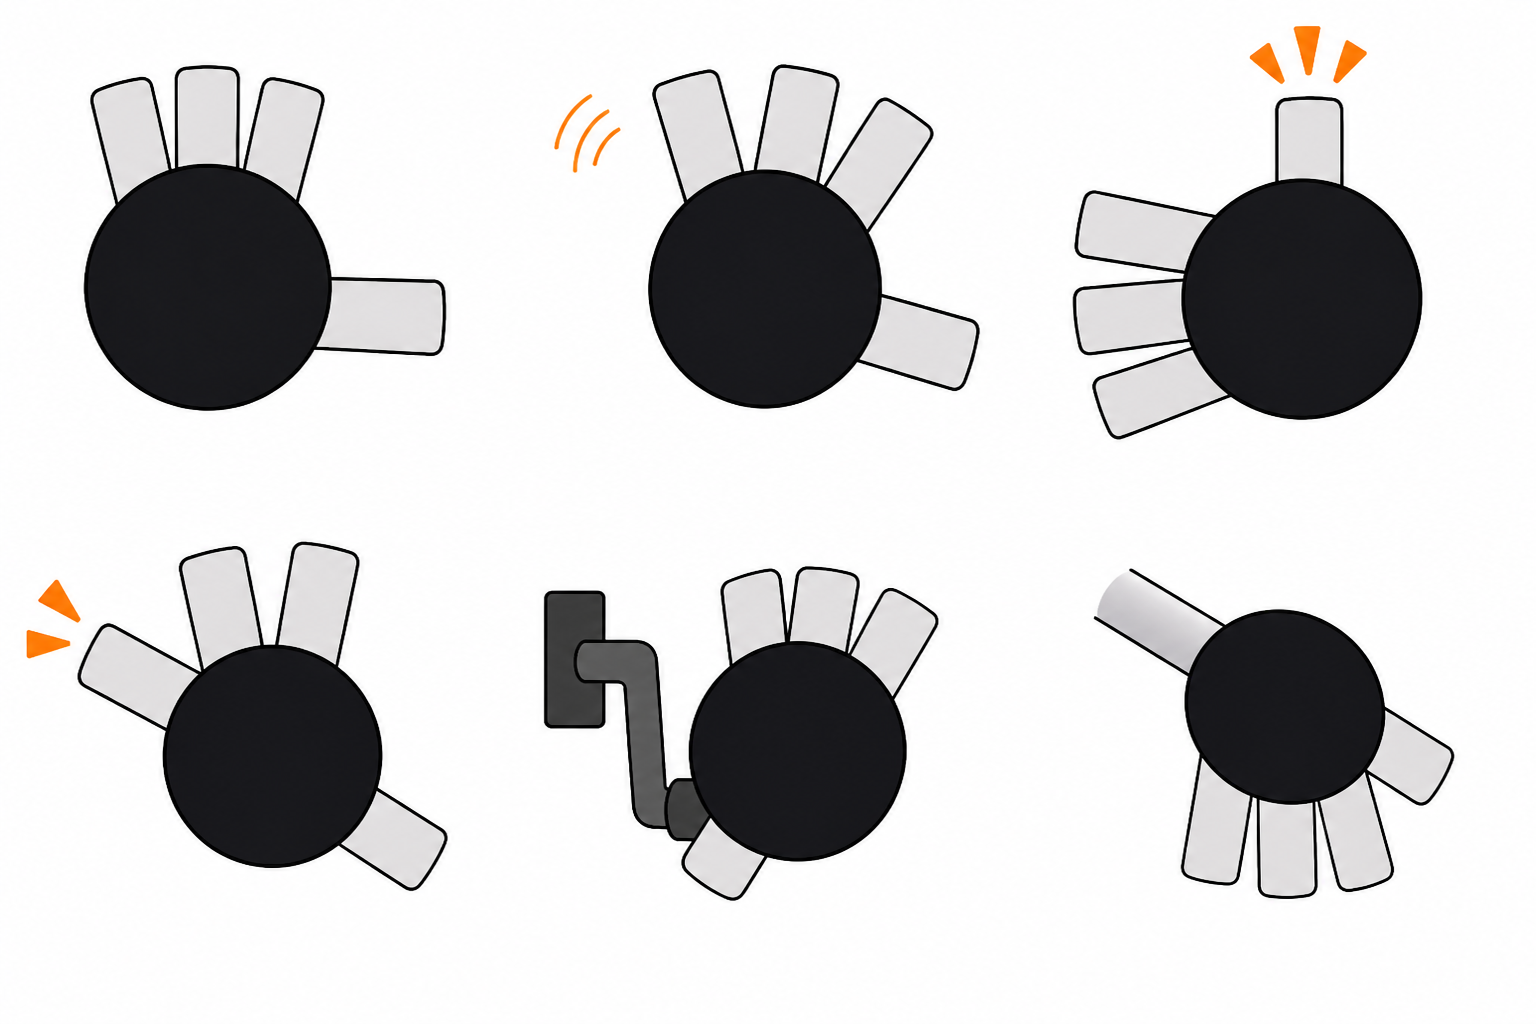
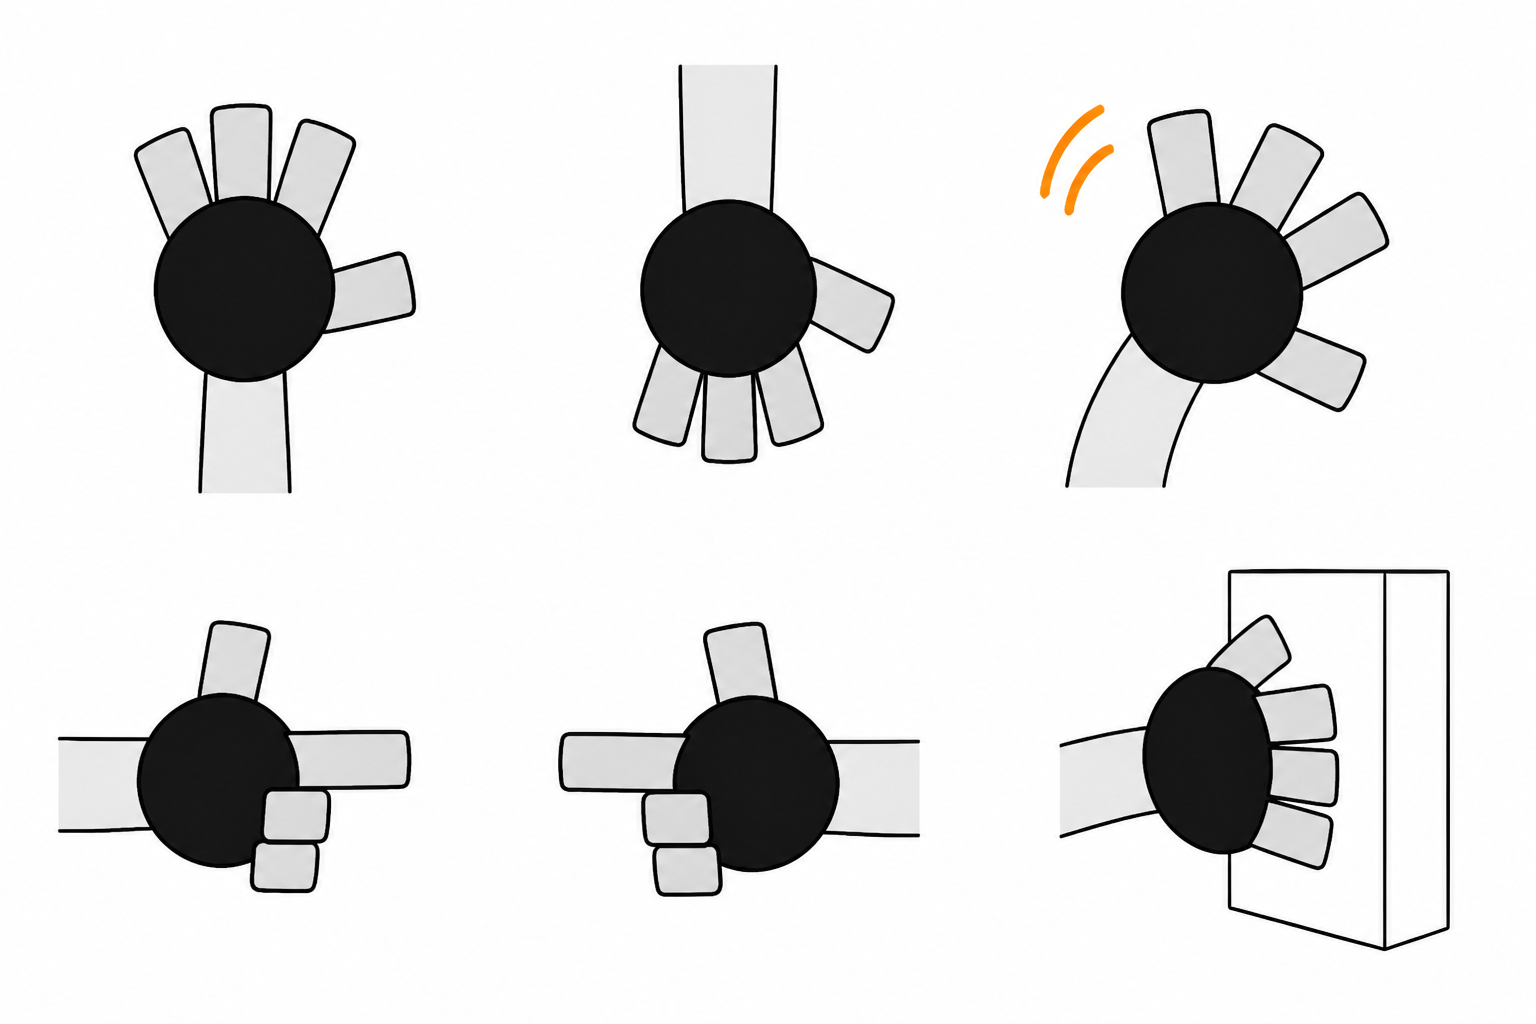
fix: restrict illustration hands to open palm and point
Grips collapse into gear-hands. Visible hands may only open or point;
T Krobot does the work with its body. Rebuild the hand lock sheets
without hold, thumbs-up, or OK poses.

diff --git a/docs/skills/tkrobot-illustrations/references/tkrobot-sketch-mode.md b/docs/skills/tkrobot-illustrations/references/tkrobot-sketch-mode.md
@@ -17,9 +17,9 @@ order:
 1. `assets/character-lock-canonical.png` — anatomy and colours from the sticker
    masters (wave, hands-on-hips, OK, face).
 2. `assets/character-lock-sketch.png` — the same character in thin-line form.
-3. `assets/hand-lock-canonical.png` — locked v1 hands: black palm blob, grey
-   rectangular tabs. Also `docs/references/hand-size-anchor.png`.
-4. `assets/hand-lock-sketch.png` — the same hands in thin-line form.
+3. `assets/hand-lock-canonical.png` — open-palm and pointing poses only.
+   Also `docs/references/hand-size-anchor.png`.
+4. `assets/hand-lock-sketch.png` — the same two poses in thin-line form.
 
 Hands are the most common miss. If a call can only take a few references,
 keep the two **hand** sheets. Do **not** pass `assets/examples/*.png` as
@@ -45,7 +45,16 @@ These do not relax. If any one is missing, regenerate.
 - Oversized **black oval feet**.
 - No mouth, no eyebrows, no blush, no nose. Blank, deadpan.
 
-## Hands (do not improvise)
+## Hands (open or point — never grip)
+
+Grips are the failure mode. Visible hands may only do **two** poses:
+
+- **Open** — palm toward us, hanging at the side, waving, or flat against a
+  surface (pushing). All four tabs readable.
+- **Point** — one grey finger tab out, grey thumb, two tabs along the palm.
+
+Do not invent a third pose. No holding, wrapping, cranking, stamping,
+carrying, pinching, thumbs-up, OK, fists, or gear-like sunbursts of tabs.
 
 Locked construction, from `docs/references/hand-size-anchor.png`:
 
@@ -55,17 +64,21 @@ Locked construction, from `docs/references/hand-size-anchor.png`:
   with hard sides and flat or slightly rounded corners. They grow out of the
   **edge** of the black blob.
 - Count the grey tabs: **three fingers plus one thumb**. Four tabs total.
-  Never four fingers plus a thumb (five tabs). Never four equal fingers with
-  no thumb. Never five digits.
-- Tabs stay **large** — the locked v1 blocky scale, roughly as long as the
-  palm is wide. Not tiny nubs, not the smaller v2 batch, not sausages.
+  Never four fingers plus a thumb (five tabs). Never five digits.
+- Tabs stay **large** — the locked v1 blocky scale. Not tiny nubs, not
+  sausages.
 - The grey arm tube meets the black palm. No extra ring.
 
-A hand that is fully hidden (in a pocket, behind a crate) may vanish. A hand
-that is visible enough to count must be this construction.
+A hand that is fully hidden may vanish. A hand that is visible enough to
+count must be open or pointing, in this construction.
+
+The **body** does the work: stand inside the machine, lean on the gate, sit
+on the crate, push with an open palm, point at the flow. Objects may rest
+*on* an open palm. They must not be gripped.
 
 Never: white Mickey gloves, all-black hands, stick-figure hooks, sausage
-fingers, fingernails, knuckle lines, or a mitten with white bars.
+fingers, fingernails, knuckle lines, a mitten with white bars, or any wrap
+around a handle.
 
 ## What relaxes
 
@@ -78,9 +91,9 @@ fingers, fingernails, knuckle lines, or a mitten with white bars.
 ## Character in the scene
 
 T Krobot is a serious, deadpan worker doing an absurd-but-coherent job. It
-must perform the image's core action: stuck inside the machine, pulling the
-wrong cable, guarding the gate, hauling the crate, weighing the ideas,
-patching the pipe, feeding pages into a strange device.
+must perform the image's core action with its **body**, not a grip: stuck
+inside the machine, leaning on the gate, standing on the crate, pointing at
+the leak, pushing the box with an open palm.
 
 Multiple T Krobots are allowed (2–3 max) when the structure needs stations —
 each doing one job. Never a crowd, never a mascot lineup.

diff --git a/docs/skills/tkrobot-illustrations/references/prompt-template.md b/docs/skills/tkrobot-illustrations/references/prompt-template.md
@@ -41,9 +41,11 @@ MUST match the lock sheets:
 - Hands (copy the hand-lock sheets): each visible hand is a ROUND SOLID BLACK
   PALM BLOB with exactly FOUR light-grey rectangular tabs growing from its
   edge — three fingers in a row plus one thumb set apart. Tabs are LARGE flat
-  rectangles with hard sides, not sausages, not nubs. The black blob is the
-  palm, not a glove. Never five digits. Never white Mickey gloves. Never
-  all-black hands. Never a mitten with white stripes.
+  rectangles with hard sides.
+  Allowed poses only: OPEN (palm toward us, hanging, waving, or flat against
+  a surface) or POINT (one tab out). Never grip, hold, wrap, crank, stamp,
+  carry, pinch, thumbs-up, OK, or fist. If a hand is curled around an object,
+  redraw the pose — have T Krobot push, lean, stand in, or point instead.
 - Feet: oversized solid black ovals.
 - No mouth, no eyebrows, no blush. Deadpan.
 
@@ -65,7 +67,8 @@ Core idea:
 {the one thing this image must say}
 
 Composition:
-{where T Krobot is, what it is doing, the main object, how information flows}
+{where T Krobot is, the body action — not a grip — the main object, how
+information flows. Hands are open or pointing only.}
 
 Suggested elements:
 {element1} / {element2} / {element3}
@@ -85,7 +88,7 @@ at least 35% blank white. At most 5-8 short handwritten labels. No title in
 any corner. Do not write the structure type on the image. Not a formal
 diagram, slide, or dense explainer. Clear but not instructional, interesting
 but not childish, strange but clean. No extra type on props (no "STAMPED",
-no "WEEKLY BRIEFING" headings).
+no "WEEKLY BRIEFING" headings). Hands open or pointing only — no grips.
 ```
 
 ## Edit prompts
@@ -106,8 +109,8 @@ to the conceptual action — doing the strange work that explains the idea, not
 standing beside the diagram. Keep it clean, sparse, hand-drawn, not cute.
 Keep T Krobot on-model: grey tube limbs, trapezoid black head and body, empty
 round white glasses, red chest diamond, black palm blobs with four large
-grey rectangular tabs (three fingers plus thumb). Not an all-black stick
-figure. Not cartoon gloves.
+grey rectangular tabs. Hands open or pointing only — no gripping. Not an
+all-black stick figure. Not cartoon gloves.
 ```
 
 Fix an off-model T Krobot (keep the scene):
@@ -127,7 +130,9 @@ Fix the hands only (keep the rest):
 Edit the provided image. Fix only T Krobot's hands to match the attached
 hand-lock sheets. Each visible hand: a round solid-black palm blob, with
 exactly three light-grey rectangular finger tabs plus one grey thumb tab
-growing from the blob's edge. Large flat tabs, hard sides. Not white gloves,
-not five digits, not sausages, not all-black fists, not striped mittens.
-Leave the head, body, scene, and labels untouched.
+growing from the blob's edge. Large flat tabs, hard sides. Each hand is
+OPEN or POINTING — if it is wrapped around a handle, uncurl it into an
+open palm or a point and move the object so it is not being held. Not
+white gloves, not five digits, not sausages, not all-black fists, not
+striped mittens. Leave the head, body, scene, and labels untouched.
 ```

diff --git a/docs/skills/tkrobot-illustrations/SKILL.md b/docs/skills/tkrobot-illustrations/SKILL.md
@@ -13,9 +13,10 @@ not PPT infographics, not cute mascot posters — a clean, whimsical,
 product-sketch-feeling drawing where **T Krobot does the strange work that
 explains the idea**.
 
-T Krobot must participate in the core action — hauling, sorting, cranking,
-guarding, falling into the hole. Never standing beside the diagram as
-decoration.
+T Krobot must participate in the core action — standing in the machine,
+leaning on the gate, pointing at the break, pushing with an open palm.
+Never standing beside the diagram as decoration. Hands stay **open or
+pointing**; do not grip or hold objects (those poses collapse).
 
 This is distinct from the sticker pack (transparent chat stickers) and from
 banner composition (deterministic hero scenes). This skill produces editorial
@@ -25,8 +26,9 @@ body images for articles, tutorials, proposals, and course-page prose.
 
 Always read `references/tkrobot-sketch-mode.md` and look at the lock sheets
 before the first `image_gen` call. T Krobot is the sticker mascot with **light
-grey tube limbs** and **black palm + grey tab hands**, not an all-black
-Xiaohei stick figure and not cartoon gloves.
+grey tube limbs** and **black palm + grey tab hands** that only **open or
+point**. Not an all-black Xiaohei stick figure, not cartoon gloves, not a
+grip.
 
 - `assets/character-lock-canonical.png` — anatomy and colours.
 - `assets/character-lock-sketch.png` — the same character in thin-line form.
@@ -68,7 +70,8 @@ time; never reuse a previous composition (see the no-recycling rule).
 Run `references/qa-checklist.md`. Check the character — then every visible
 hand — against the lock sheets before anything else. Regenerate or edit if:
 the robot drifted into Xiaohei (black stick limbs, pill head, dotted eyes);
-hands drifted into gloves, five digits, sausages, or black fists; T Krobot is
+hands drifted into gloves, five digits, sausages, grips, or black fists;
+T Krobot is
 mere decoration; the canvas is crowded; it reads as a flowchart or slide; the
 annotations are long or numerous; a type-title appears in a corner; the style
 went cute or went vector; the background isn't clean white.

diff --git a/AGENTS.md b/AGENTS.md
@@ -34,7 +34,7 @@ Do **not** add unrelated brand assets, slide decks, checkerboard previews, or lo
 1. **Find existing stickers** → `stickers/` and `stickers/manifest.json` (filter by `tags` / `description`).
 2. **See the whole pack** → `stickers/contact-sheet.png`.
 3. **Match style before generating** → `docs/skills/tkrobot-sticker-generation/references/style-guide.md` and `docs/prompts/tkrobot-sticker-guidelines.md`.
-3b. **Article/tutorial body illustrations** (not stickers) → `docs/skills/tkrobot-illustrations/SKILL.md`. Attach the character lock sheets and the hand lock sheets on every generation call. Hands are a round black palm blob with three grey rectangular finger tabs plus one thumb; reject gloves, five digits, and all-black Xiaohei stick figures.
+3b. **Article/tutorial body illustrations** (not stickers) → `docs/skills/tkrobot-illustrations/SKILL.md`. Attach the character and hand lock sheets on every generation call. Hands are a black palm blob with three grey rectangular tabs plus a thumb, **open or pointing only** — no gripping. Reject gloves, five digits, and all-black Xiaohei stick figures.
 4. **Match hand size** → `docs/references/hand-size-anchor.png`.
 5. **Ignore by default** → almost everything under `archive/generated-iterations/` except when a manifest `source_path` or note points there.
 

diff --git a/docs/skills/tkrobot-illustrations/references/composition-patterns.md b/docs/skills/tkrobot-illustrations/references/composition-patterns.md
@@ -13,9 +13,9 @@ Pick ONE structure per image.
 - **Concept metaphor** — one memorable odd contraption; minimal inputs, one
   output.
 - **Layered method** — stacked boxes, hand-drawn not a formal pyramid;
-  T Krobot hauling bricks or building a layer.
+  T Krobot standing on a layer or pointing at the next brick.
 - **Route map** — a bending path with few nodes; T Krobot walking it or
-  pulling a thread along it.
+  pointing along it.
 - **Mini comic** — 2–4 panels, one action per panel.
 
 ## Inventing the metaphor (every time)
@@ -25,8 +25,9 @@ Pick ONE structure per image.
 2. Convert the system into a **low-tech object**: broken machine, cardboard
    box, drawer, pipe, postbox, dial, scale, well, ladder, clothesline, gate,
    odd workstation. Pick 1–2, never a pile.
-3. Give T Krobot the action: not standing beside it — jammed in it, pulling
-   it, guarding it, weighing it, mending it, feeding it.
+3. Give T Krobot a **body** action: jammed in it, leaning on it, standing
+   on it, guarding it, pointing at the break, pushing with an open palm.
+   Do not solve the action with a grip. Hands stay open or pointing.
 
 Education-flavoured objects are welcome when the text calls for them
 (classroom conveyor, marking stamp, kit crate, block bin) but avoid literal

diff --git a/docs/skills/tkrobot-illustrations/references/qa-checklist.md b/docs/skills/tkrobot-illustrations/references/qa-checklist.md
@@ -14,9 +14,13 @@ Reject or edit when any of these appear.
 - Mouth, eyebrows, blush, or a cute face.
 - Thick sticker outlines or flat sticker shading on a sketch page.
 - Hands off-model (check every visible hand against the hand-lock sheets):
-  white gloves; five digits; four fingers plus a thumb; four equal fingers
-  with no thumb; sausage or tube fingers; all-black hands; missing palm
-  blob; tiny nubs; a mitten with white/grey stripes; stick-figure hooks.
+  white gloves; five digits; four fingers plus a thumb; sausage or tube
+  fingers; all-black hands; missing palm blob; tiny nubs; a mitten with
+  white/grey stripes; stick-figure hooks.
+- Hands gripping or holding: wrapped around a crank, stamp, handle, needle,
+  magnifying glass, wheelbarrow, bucket, or any other object. Visible hands
+  may only be **open** or **pointing**. If you need a grip to tell the
+  story, change the pose instead of editing the fingers.
 
 ## Page
 

diff --git a/docs/skills/tkrobot-illustrations/assets/README.md b/docs/skills/tkrobot-illustrations/assets/README.md
@@ -11,13 +11,13 @@
 Hands are the most common miss. Attach these as well, and prefer them if the
 image tool only accepts a few references.
 
-- `hand-lock-canonical.png` — locked v1 palm/tabs from
-  `docs/references/hand-size-anchor.png` plus palm-open, thumbs-up, point, OK.
-- `hand-lock-sketch.png` — the same construction in thin-line form.
+- `hand-lock-canonical.png` — open-palm and pointing only (palm-open,
+  point-left, point-right, greetings, handraise).
+- `hand-lock-sketch.png` — the same two poses in thin-line form.
 
 Round black palm blob. Exactly three light-grey rectangular finger tabs plus
-one grey thumb tab, growing from the blob's edge. Large flat tabs, not
-gloves, not five digits, not sausages.
+one grey thumb tab. **Open or point only** — no grips, holds, thumbs-up, or
+OK. If the tool only accepts a few references, keep these two sheets.
 
 ## Examples (page density only)
 

diff --git a/docs/skills/tkrobot-illustrations/references/style-dna.md b/docs/skills/tkrobot-illustrations/references/style-dna.md
@@ -14,9 +14,9 @@ a blank sheet — quickly, precisely, and slightly absurdly.
 T Krobot is the sticker mascot in thin-line form. Light grey tube limbs, black
 trapezoid head and body, empty round white glasses, red chest diamond, hands
 that are a black palm blob with three grey rectangular finger tabs plus a
-thumb. See `tkrobot-sketch-mode.md` and the lock sheets. If the robot is an
-all-black stick figure, or the hands are gloves, the page is wrong even when
-the layout is right.
+thumb, open or pointing only. See `tkrobot-sketch-mode.md` and the lock
+sheets. If the robot is an all-black stick figure, or the hands are gloves
+or wrapped around a handle, the page is wrong even when the layout is right.
 
 ## Must
 
